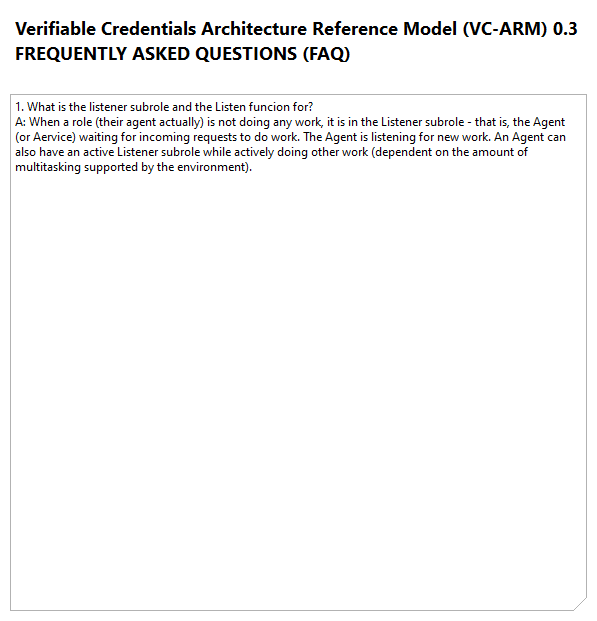
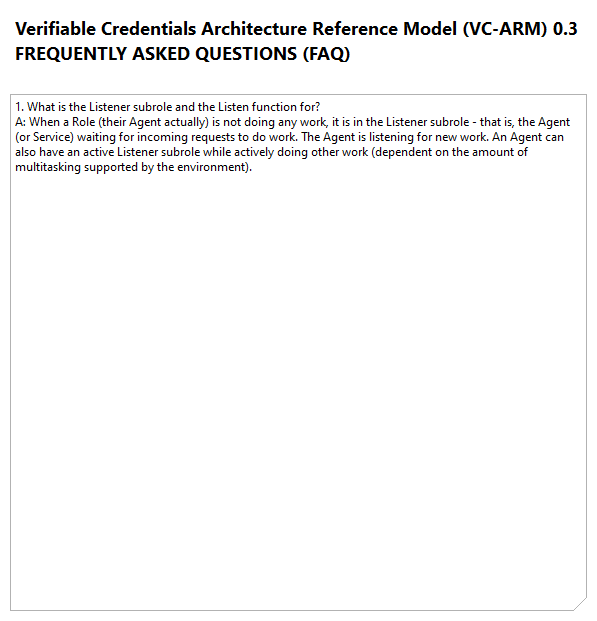
Cleaned up the top-level text files

Changed region(s): [[0.0603, 0.153, 0.9648, 0.2448]]

diff --git a/docs/id-5f1b868ce86d44c0824994fb5651137e/objects/id-3a858868b2144f2cad5218dd00d569b4.html b/docs/id-5f1b868ce86d44c0824994fb5651137e/objects/id-3a858868b2144f2cad5218dd00d569b4.html
@@ -45,8 +45,8 @@
 				<!-- Tab panes -->
 				<div class="tab-content">
 					<div role="tabpanel" class="tab-pane active" id="documentation">
-						<div class="convertlinks documentation" style="white-space:pre-wrap">1. What is the listener subrole and the Listen funcion for?
-A: When a role (their agent actually) is not doing any work, it is in the Listener subrole - that is, the Agent (or Aervice) waiting for incoming requests to do work. The Agent is listening for new work. An Agent can also have an active Listener subrole while actively doing other work (dependent on the amount of multitasking supported by the environment). 
+						<div class="convertlinks documentation" style="white-space:pre-wrap">1. What is the Listener subrole and the Listen function for?
+A: When a Role (their Agent actually) is not doing any work, it is in the Listener subrole - that is, the Agent (or Service) waiting for incoming requests to do work. The Agent is listening for new work. An Agent can also have an active Listener subrole while actively doing other work (dependent on the amount of multitasking supported by the environment). 
 </div>
 					</div>
 					<div role="tabpanel" class="tab-pane" id="properties">

diff --git a/docs/id-5f1b868ce86d44c0824994fb5651137e/views/id-9aa2f518a1414287beecce222e41173e.html b/docs/id-5f1b868ce86d44c0824994fb5651137e/views/id-9aa2f518a1414287beecce222e41173e.html
@@ -34,9 +34,9 @@
 		    <!-- If this is a digram model (has children and no bounds) show the image -->
 			   <img class="diagram" src="../images/id-9aa2f518a1414287beecce222e41173e.png" alt="CONTRIBUTORS" usemap="#id-9aa2f518a1414287beecce222e41173emap"/>
 			   <map name="id-9aa2f518a1414287beecce222e41173emap">
-				          <area shape="rect" coords="10,310,587,1499" href="../objects/id-77ff0059d0f74cc0a0db1efacf4bb1cc.html" target="element" >
-				          <area shape="rect" coords="10,10,587,71" href="../objects/id-b1fc110451bc419a87194d2c72766ed9.html" target="element" >
-				          <area shape="rect" coords="10,94,587,287" href="../objects/id-8bf28cbac6394c4db4a8e0ee473406f1.html" target="element" >
+				          <area shape="rect" coords="10,94,587,1283" href="../objects/id-77ff0059d0f74cc0a0db1efacf4bb1cc.html" target="element" >
+				          <area shape="rect" coords="22,10,599,71" href="../objects/id-b1fc110451bc419a87194d2c72766ed9.html" target="element" >
+				          <area shape="rect" coords="610,94,1187,287" href="../objects/id-8bf28cbac6394c4db4a8e0ee473406f1.html" target="element" >
 
 			   </map>
 

diff --git a/docs/id-5f1b868ce86d44c0824994fb5651137e/views/id-d31e320a4c5748e6b4f015014c75f41c.html b/docs/id-5f1b868ce86d44c0824994fb5651137e/views/id-d31e320a4c5748e6b4f015014c75f41c.html
@@ -34,8 +34,8 @@
 		    <!-- If this is a digram model (has children and no bounds) show the image -->
 			   <img class="diagram" src="../images/id-d31e320a4c5748e6b4f015014c75f41c.png" alt="LICENSE" usemap="#id-d31e320a4c5748e6b4f015014c75f41cmap"/>
 			   <map name="id-d31e320a4c5748e6b4f015014c75f41cmap">
-				          <area shape="rect" coords="10,381,527,3335" href="../objects/id-235cc38129d14ee9b2e5260a16e3a78b.html" target="element" >
-				          <area shape="rect" coords="10,10,527,359" href="../objects/id-6c5f725d98894e58b16cd921f4421f53.html" target="element" >
+				          <area shape="rect" coords="10,10,527,2964" href="../objects/id-235cc38129d14ee9b2e5260a16e3a78b.html" target="element" >
+				          <area shape="rect" coords="550,10,1067,359" href="../objects/id-6c5f725d98894e58b16cd921f4421f53.html" target="element" >
 
 			   </map>
 

diff --git a/docs/id-5f1b868ce86d44c0824994fb5651137e/objects/id-0cd53ed673f345809104e8d6b9621c20.html b/docs/id-5f1b868ce86d44c0824994fb5651137e/objects/id-0cd53ed673f345809104e8d6b9621c20.html
@@ -45,7 +45,7 @@
 				<!-- Tab panes -->
 				<div class="tab-content">
 					<div role="tabpanel" class="tab-pane active" id="documentation">
-						<div class="convertlinks documentation" style="white-space:pre-wrap">Intended Audience
+						<div class="convertlinks documentation" style="white-space:pre-wrap">### Intended Audience
 
 The intended audience for the VC-ARM model is a broad range of professionals interested in furthering the application of Verifiable Credentials technology for use in software apps, agents, and services. The primary audience includes software architects, application developers, and user experience (UX) specialists; as well as people involved in a broad range of standards efforts related to decentralized identity, verified credentials, and secure storage.
 </div>

diff --git a/AUDIENCE.md b/AUDIENCE.md
@@ -1,3 +1,3 @@
-Intended Audience
+### Intended Audience
 
 The intended audience for the VC-ARM model is a broad range of professionals interested in furthering the application of Verifiable Credentials technology for use in software apps, agents, and services. The primary audience includes software architects, application developers, and user experience (UX) specialists; as well as people involved in a broad range of standards efforts related to decentralized identity, verified credentials, and secure storage.
